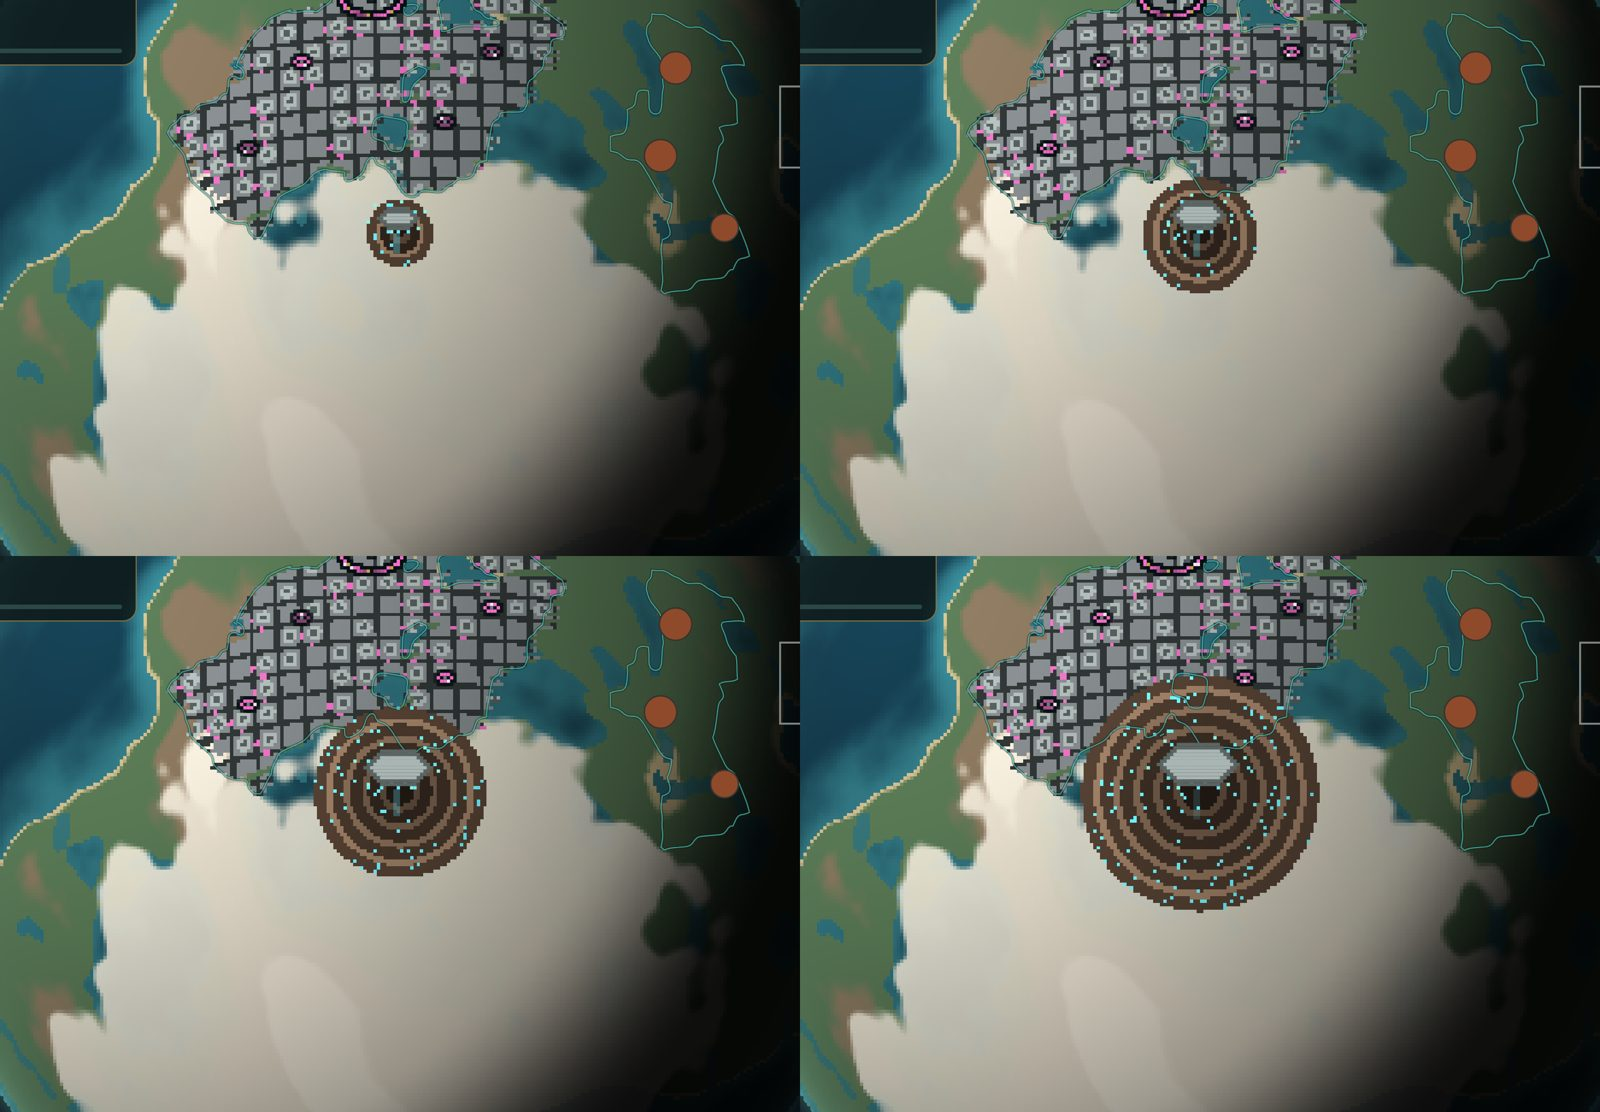
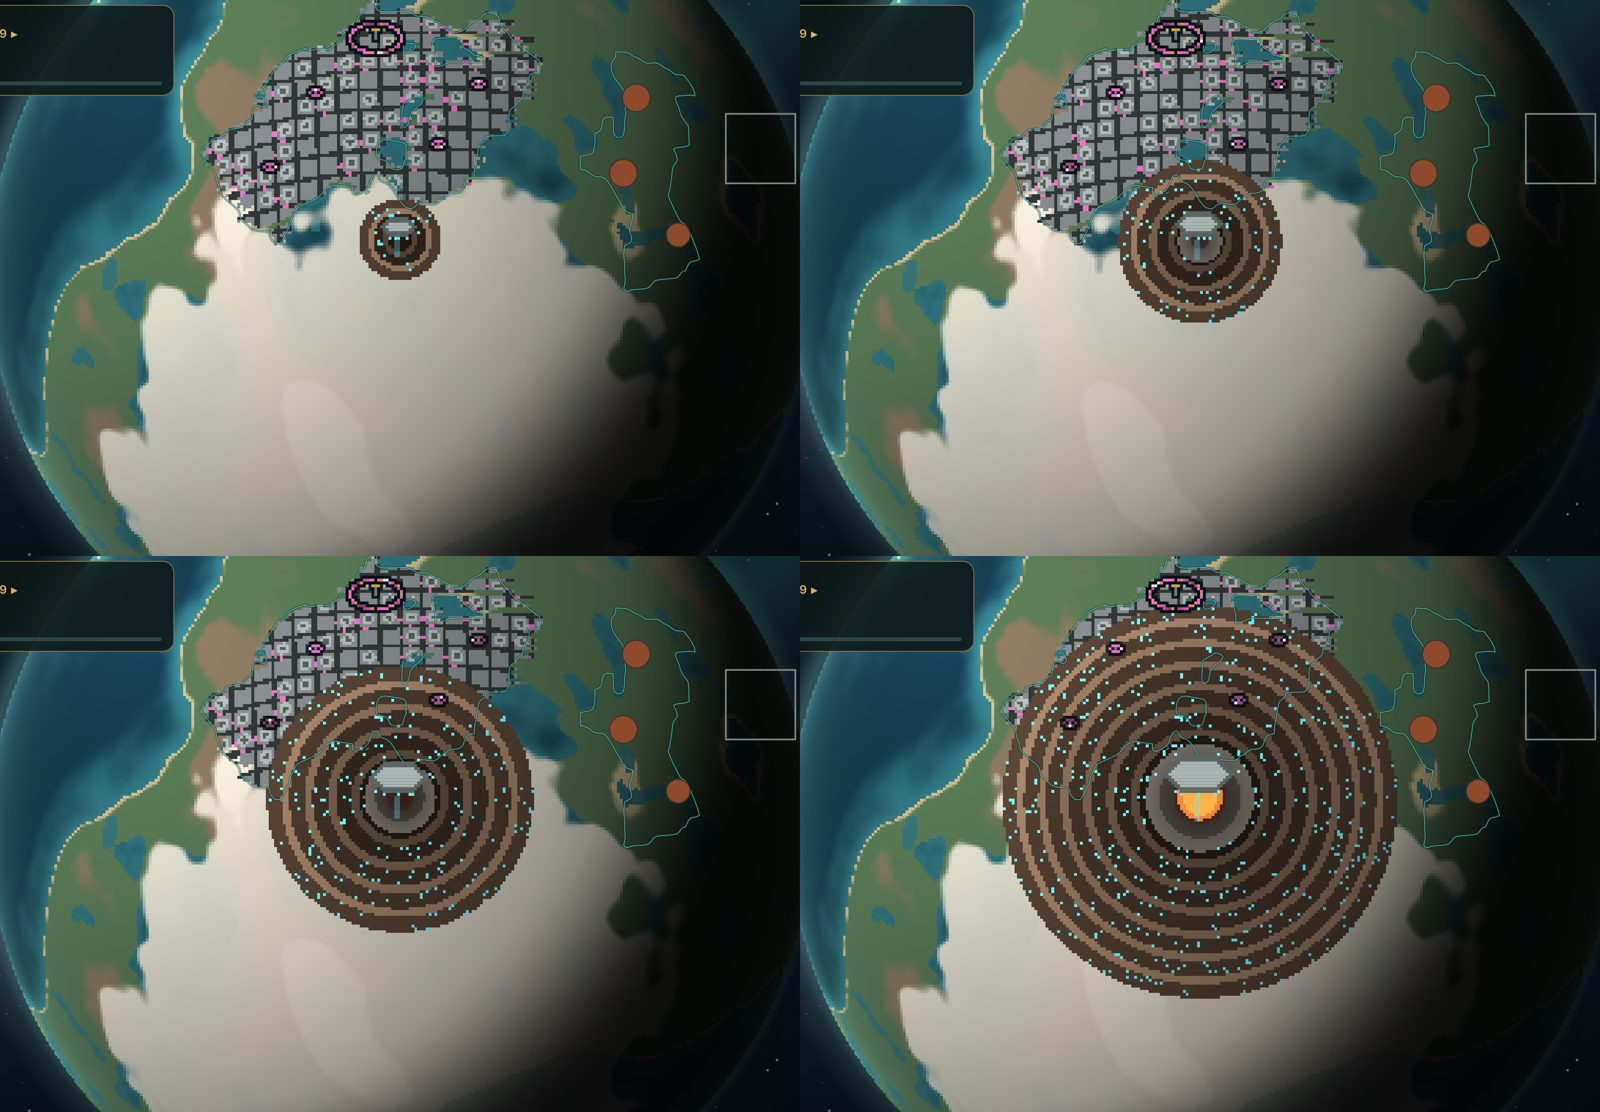
Krater kryształów: 2× szerszy na etapie 4, szyb w dnie aż do jądra planety (3D i 2D)
Claude-Session: https://claude.ai/code/session_01VkPVLkUY4LawJmspCK1nc1

diff --git a/src/planet-renderer/PlanetView.ts b/src/planet-renderer/PlanetView.ts
@@ -14,7 +14,7 @@ import { cellLookup, collectorOrbit, constructOrbit, hash01, stationOrbit, layou
 import { pitDepthMax, pitShare, pitSink3d } from './complexLook.ts';
 import { bearingOf, buildDrill, drillParams, drillStage, rimPoint, type DrillParams } from './drill.ts';
 import { drillLook } from '../data/drill.ts';
-import { buildCrater } from './crater.ts';
+import { buildCrater, craterDrill } from './crater.ts';
 import { createCrystalRig, type CrystalRig } from './crystalRigMesh.ts';
 import { buildOpenPit, oceanCutValue, pitBand, pitRadius, snapToContours, type OpenPit } from './openPit.ts';
 import { createPitCables, type PitCables } from './openPitMeshes.ts';
@@ -200,7 +200,7 @@ export class PlanetView implements PlanetDisplay {
     this.colony.setMetalComplex(null);
     // Obiekty kompleksu kopalni metalu i drogi stoją na terenie (bez obniżenia odkrywki).
     this.colony.setGround((dir) => this.groundAt(dir));
-    this.setDrill(null, null);
+    this.setDrill(null, 0, null);
     this.setCables(null);
     this.openPit = null;
     // Widok układu (etap D): ostatnie modele planet zostają w pamięci (do `PLANET_CACHE`) — powrót na planetę bez
@@ -331,7 +331,7 @@ export class PlanetView implements PlanetDisplay {
     if (this.layout) this.applyColony(this.layout, false);
   }
 
-  private setCraterRig(pit: OpenPit | null, stage: number): void {
+  private setCraterRig(pit: OpenPit | null, stage: number, bottom?: number): void {
     if (this.craterRig) {
       this.craterRig.group.parent?.remove(this.craterRig.group);
       disposeObject(this.craterRig.group);
@@ -339,7 +339,7 @@ export class PlanetView implements PlanetDisplay {
     }
     if (!pit) return;
     const hover = pit.rim + 0.02 + 0.01 * stage;
-    this.craterRig = createCrystalRig(pit.center, hover, pit.floorRadius, 0.016 + 0.007 * stage);
+    this.craterRig = createCrystalRig(pit.center, hover, bottom ?? pit.floorRadius, 0.018 + 0.007 * stage);
     this.spinGroup.add(this.craterRig.group);
   }
   /** Ostatnia narysowana klatka (położenie i chwila) — do rysowania rzadziej, gdy planeta stoi. */
@@ -548,11 +548,12 @@ export class PlanetView implements PlanetDisplay {
     this.colony.setSink(this.pitSink(layout));
     if (fresh) this.colony.setLayout(layout);
     else this.colony.updateLayout(layout);
-    const drill = pitComplex ? this.drillFor(pitComplex) : null;
+    const crater = proto && protoCell && this.openPit ? this.openPit : null;
+    const drill = crater && proto ? craterDrill(crater, proto.stage) : pitComplex ? this.drillFor(pitComplex) : null;
     this.paintLand(layout, this.colony.pads(), drill);
-    this.setDrill(pitComplex, drill);
+    this.setDrill(crater?.center ?? pitComplex?.core ?? null, crater ? proto!.cell : (pitComplex?.cells[0] ?? 0), drill);
     this.setCables(this.openPit && hanging ? createPitCables(this.openPit, hanging, (dir) => this.pitGround(dir), this.still) : null);
-    this.setCraterRig(proto && this.openPit ? this.openPit : null, proto?.stage ?? 1);
+    this.setCraterRig(crater, proto?.stage ?? 1, drill?.bottom);
     // Wyrobisko może zejść poniżej poziomu morza — tafla oceanu nad nim jest wycięta.
     if (pitComplex && !this.openPit) this.oceanCut.value.set(...pitComplex.core, Math.cos(pitComplex.radius * pitShare(pitComplex.stage)));
     else this.oceanCut.value.set(0, 1, 0, 2);
@@ -680,14 +681,14 @@ export class PlanetView implements PlanetDisplay {
   }
 
   /** Siatki odwiertu: tworzone przy zmianie etapu (nie co klatkę), stare zwalniane. */
-  private setDrill(pit: ColonyComplex | null, params: DrillParams | null): void {
+  private setDrill(center: Vec3 | null, seed: number, params: DrillParams | null): void {
     if (this.drill) {
       this.drill.parent?.remove(this.drill);
       disposeObject(this.drill);
       this.drill = null;
     }
-    if (!pit || !params) return;
-    const built = buildDrill(this.openPit?.center ?? pit.core, params, drillLook(this.planetType), pit.cells[0] ?? 0);
+    if (!center || !params) return;
+    const built = buildDrill(this.openPit?.center ?? center, params, drillLook(this.planetType), seed);
     const mesh = (part: { position: Float32Array; color: Float32Array }, material: THREE.Material) => {
       const geometry = new THREE.BufferGeometry();
       geometry.setAttribute('position', new THREE.BufferAttribute(part.position, 3));
@@ -796,9 +797,10 @@ export class PlanetView implements PlanetDisplay {
     this.levelPads(pos, pads, complexAt);
     // Otwór odwiertu: wierzchołki lądu z wnętrza otworu przypięte do okręgu krawędzi (tam zaczynają się ściany studni);
     // ścianka całkiem w otworze ściągnięta do jednego punktu (znika) — pierwotna powierzchnia nie przechodzi przez otwór.
-    if (pit && drill) {
+    const drillAxis = open?.center ?? pit?.core;
+    if (drill && drillAxis) {
       const cosRim = Math.cos(drill.rimAngle);
-      const n = open?.center ?? pit.core;
+      const n = drillAxis;
       const inside = (i: number) =>
         (pos[i]! * n[0] + pos[i + 1]! * n[1] + pos[i + 2]! * n[2]) / Math.hypot(pos[i]!, pos[i + 1]!, pos[i + 2]!) > cosRim;
       const pin = (i: number, from: number) => {

diff --git a/src/planet-renderer/CanvasPlanetFallback.ts b/src/planet-renderer/CanvasPlanetFallback.ts
@@ -4,8 +4,9 @@ import { fieldGrid, type FieldGrid } from '../core/colony/fieldGrid.ts';
 import type { Plots } from '../core/colony/plots.ts';
 import type { Complex } from '../core/colony/complexes.ts';
 import { cellLookup, collectorOrbit, constructOrbit, hash01, stationOrbit, layoutFromPlots, plotsKey, type CellLookup, type ColonyLayout } from './colony.ts';
-import { complexGround, craterGround } from './complexLook.ts';
-import { buildCrater } from './crater.ts';
+import { complexGround, craterGround, type CraterShaft } from './complexLook.ts';
+import { buildCrater, craterDrill } from './crater.ts';
+import { drillLook } from '../data/drill.ts';
 import { buildOpenPit, type OpenPit } from './openPit.ts';
 import { borderChains, borderStates, cellBorders, CHOICE, FIELD_COLORS, FIELD_LINE, HIGHLIGHT, outlineBorders, type BorderChain, type HighlightMode } from './fieldOverlay.ts';
 import { DragRotator } from './input/dragRotator.ts';
@@ -42,6 +43,8 @@ export class CanvasPlanetFallback implements PlanetDisplay {
   /** Prototyp krateru megakonstruktu kryształów (tylko wygląd) i jego etap. */
   private crater: OpenPit | null = null;
   private craterStage = 1;
+  private craterShaft: CraterShaft | null = null;
+  private planetType = '';
   private levels: BuildingLevels | undefined;
   private site: BuildSite | null = null;
   private look: DiscLook | undefined;
@@ -100,6 +103,9 @@ export class CanvasPlanetFallback implements PlanetDisplay {
   }
 
   setPlanet(planet: Planet): void {
+    this.planetType = planet.definitionId;
+    this.crater = null;
+    this.craterShaft = null;
     this.look = discLook(planet);
     this.sampler = this.look.sampler;
     this.grid = fieldGrid(planet);
@@ -330,6 +336,15 @@ export class CanvasPlanetFallback implements PlanetDisplay {
     const cell = proto && this.grid ? this.grid.cells[proto.cell] : undefined;
     this.crater = proto && cell ? buildCrater(cell.center as [number, number, number], proto.stage, () => 1) : null;
     this.craterStage = proto?.stage ?? 1;
+    const drill = this.crater && proto ? craterDrill(this.crater, proto.stage) : null;
+    const look = drillLook(this.planetType);
+    const rgb = (h: string): [number, number, number] => {
+      const n = parseInt(h.slice(1), 16);
+      return [((n >> 16) & 255) / 255, ((n >> 8) & 255) / 255, (n & 255) / 255];
+    };
+    this.craterShaft = drill && drill.stage >= 3
+      ? { angle: drill.rimAngle, depth: Math.min(1, (drill.stage - 2) / 5), core: drill.core !== null, colors: { crust: rgb(look.crust), deepCrust: rgb(look.deepCrust), mantle: rgb(look.mantle), hot: rgb(look.hot), core: rgb(look.core), glow: rgb(look.glow) } }
+      : null;
     this.lastDrawn = { yaw: NaN, pitch: NaN };
   }
 
@@ -572,7 +587,7 @@ export class CanvasPlanetFallback implements PlanetDisplay {
     const overlay =
       colony && lookup && (colony.complexes.length > 0 || crater)
         ? (x: number, y: number, z: number) => {
-            if (crater && crater.inside([x, y, z])) return craterGround(crater, [x, y, z]);
+            if (crater && crater.inside([x, y, z])) return craterGround(crater, [x, y, z], this.craterShaft);
             const cell = lookup(x, y, z);
             const index = cell >= 0 ? colony.owner[cell]! : -1;
             if (index < 0) return null;

diff --git a/src/planet-renderer/crater.ts b/src/planet-renderer/crater.ts
@@ -5,14 +5,23 @@
 import type { OpenPitLook } from '../data/openPit.ts';
 import { angleBetween, type Vec3 } from './colony.ts';
 import { pitRadius, type OpenPit } from './openPit.ts';
+import { drillParams, type DrillParams } from './drill.ts';
 
-/** Wygląd krateru wg etapu (1–4): promień kątowy, liczba tarasów, głębokość (ułamek promienia planety). Robocze. */
-export const CRATER_STAGES: Readonly<Record<1 | 2 | 3 | 4, { radius: number; layers: number; depth: number }>> = {
-  1: { radius: 0.07, layers: 2, depth: 0.035 },
-  2: { radius: 0.12, layers: 3, depth: 0.06 },
-  3: { radius: 0.18, layers: 4, depth: 0.09 },
-  4: { radius: 0.25, layers: 5, depth: 0.13 },
+/** Wygląd krateru wg etapu (1–4): promień kątowy, liczba tarasów, głębokość (ułamek promienia planety), etap szybu. Robocze. */
+export const CRATER_STAGES: Readonly<Record<1 | 2 | 3 | 4, { radius: number; layers: number; depth: number; drill: number }>> = {
+  1: { radius: 0.1, layers: 2, depth: 0.04, drill: 2 },
+  2: { radius: 0.2, layers: 3, depth: 0.08, drill: 4 },
+  3: { radius: 0.33, layers: 4, depth: 0.12, drill: 6 },
+  4: { radius: 0.5, layers: 6, depth: 0.17, drill: 8 },
 };
+
+/**
+ * Szyb w dnie krateru (odwiert z v0.48, `drill.ts`): etap odwiertu wg etapu krateru — na etapie 4 aż do jądra planety
+ * (decyzja właściciela 2026-11-02). Otwór zajmuje prawie całe płaskie dno.
+ */
+export function craterDrill(pit: OpenPit, stage: 1 | 2 | 3 | 4): DrillParams | null {
+  return drillParams(CRATER_STAGES[stage].drill, pit.floorAngle * 1.6, pit.floorRadius);
+}
 
 const norm = (v: Vec3): Vec3 => {
   const l = Math.hypot(v[0], v[1], v[2]) || 1;
@@ -42,7 +51,7 @@ function onCircle(c: Vec3, p: Vec3, angle: number): Vec3 {
 export function buildCrater(center: Vec3, stage: 1 | 2 | 3 | 4, ground: (dir: Vec3) => number): OpenPit {
   const st = CRATER_STAGES[stage];
   const R = st.radius;
-  const floorAngle = R * 0.16;
+  const floorAngle = R * 0.3;
   const look: OpenPitLook = { layers: st.layers, depth: st.depth, shelf: 0.35, floor: 1.9, hang: 0.3, cables: 0, sag: 0, status: 'robocza' };
   const c = norm(center);
   const outline: Vec3[] = Array.from({ length: 129 }, (_, i) => {

diff --git a/src/planet-renderer/complexLook.ts b/src/planet-renderer/complexLook.ts
@@ -235,7 +235,19 @@ function lotCrystal(p: Vec3, share: number): boolean {
  * Krater megakonstruktu kryształów (prototyp, 2D): brązowe tarasy — półki jaśniejsze, zbocza ciemniejsze, im głębiej,
  * tym ciemniej; turkusowe żyły kryształu na zboczach; dno ciemne z kryształami. Barwy jak w 3D (robocze).
  */
-export function craterGround(pit: OpenPit, p: Vec3): GroundColor {
+export function craterGround(pit: OpenPit, p: Vec3, shaft: CraterShaft | null = null): GroundColor {
+  if (shaft) {
+    // Szyb w dnie: koncentryczne warstwy coraz głębiej (skorupa → płaszcz → strefa gorąca), w środku blask dna
+    // albo — na ostatnim etapie — jądro planety.
+    const t = angleBetween(pit.center, p) / shaft.angle;
+    if (t < 1) {
+      if (shaft.core && t < 0.32) return { rgb: shaft.colors.core, glow: 1 };
+      if (shaft.core && t < 0.42) return { rgb: shaft.colors.glow, glow: 0.8 };
+      const ring = Math.min(3, Math.floor((1 - t) * 4 * (shaft.depth)));
+      const base = [shaft.colors.crust, shaft.colors.deepCrust, shaft.colors.mantle, shaft.colors.hot][ring]!;
+      return { rgb: shade(base, 0.8 - 0.35 * (1 - t)), glow: ring >= 3 ? 0.3 : 0 };
+    }
+  }
   const s = pit.sCached(p);
   if (s >= 0.999) return lotCrystal(p, 0.08) ? { rgb: CRYSTAL, glow: 0.8 } : { rgb: [0.12, 0.09, 0.07], glow: 0 };
   const { layer, shelf } = pitBand(pit.look, s);
@@ -243,3 +255,12 @@ export function craterGround(pit: OpenPit, p: Vec3): GroundColor {
   if (!shelf && lotCrystal(p, 0.05)) return { rgb: CRYSTAL, glow: 0.5 };
   return { rgb: shade(shelf ? [0.56, 0.45, 0.36] : [0.3, 0.23, 0.18], 1.05 - 0.45 * depth), glow: 0 };
 }
+
+/** Szyb w dnie krateru (2D): promień kątowy, jak głęboko (0–1, ile warstw widać), czy widać jądro, barwy warstw. */
+export interface CraterShaft {
+  angle: number;
+  depth: number;
+  core: boolean;
+  colors: { crust: RGB3; deepCrust: RGB3; mantle: RGB3; hot: RGB3; core: RGB3; glow: RGB3 };
+}
+type RGB3 = [number, number, number];
